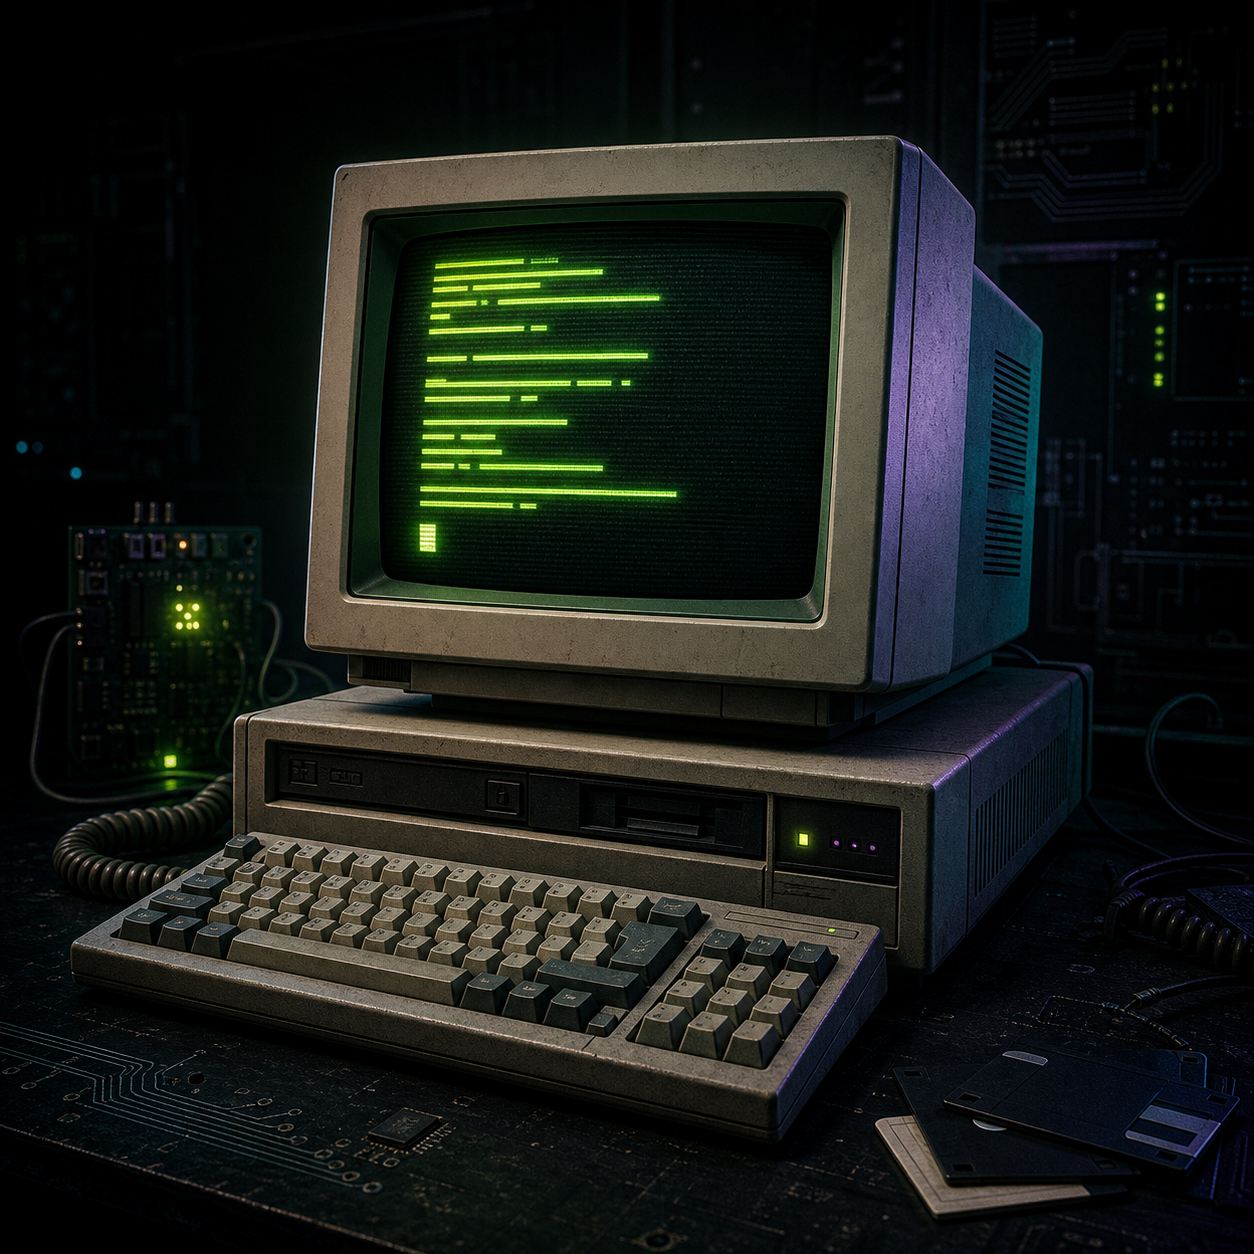
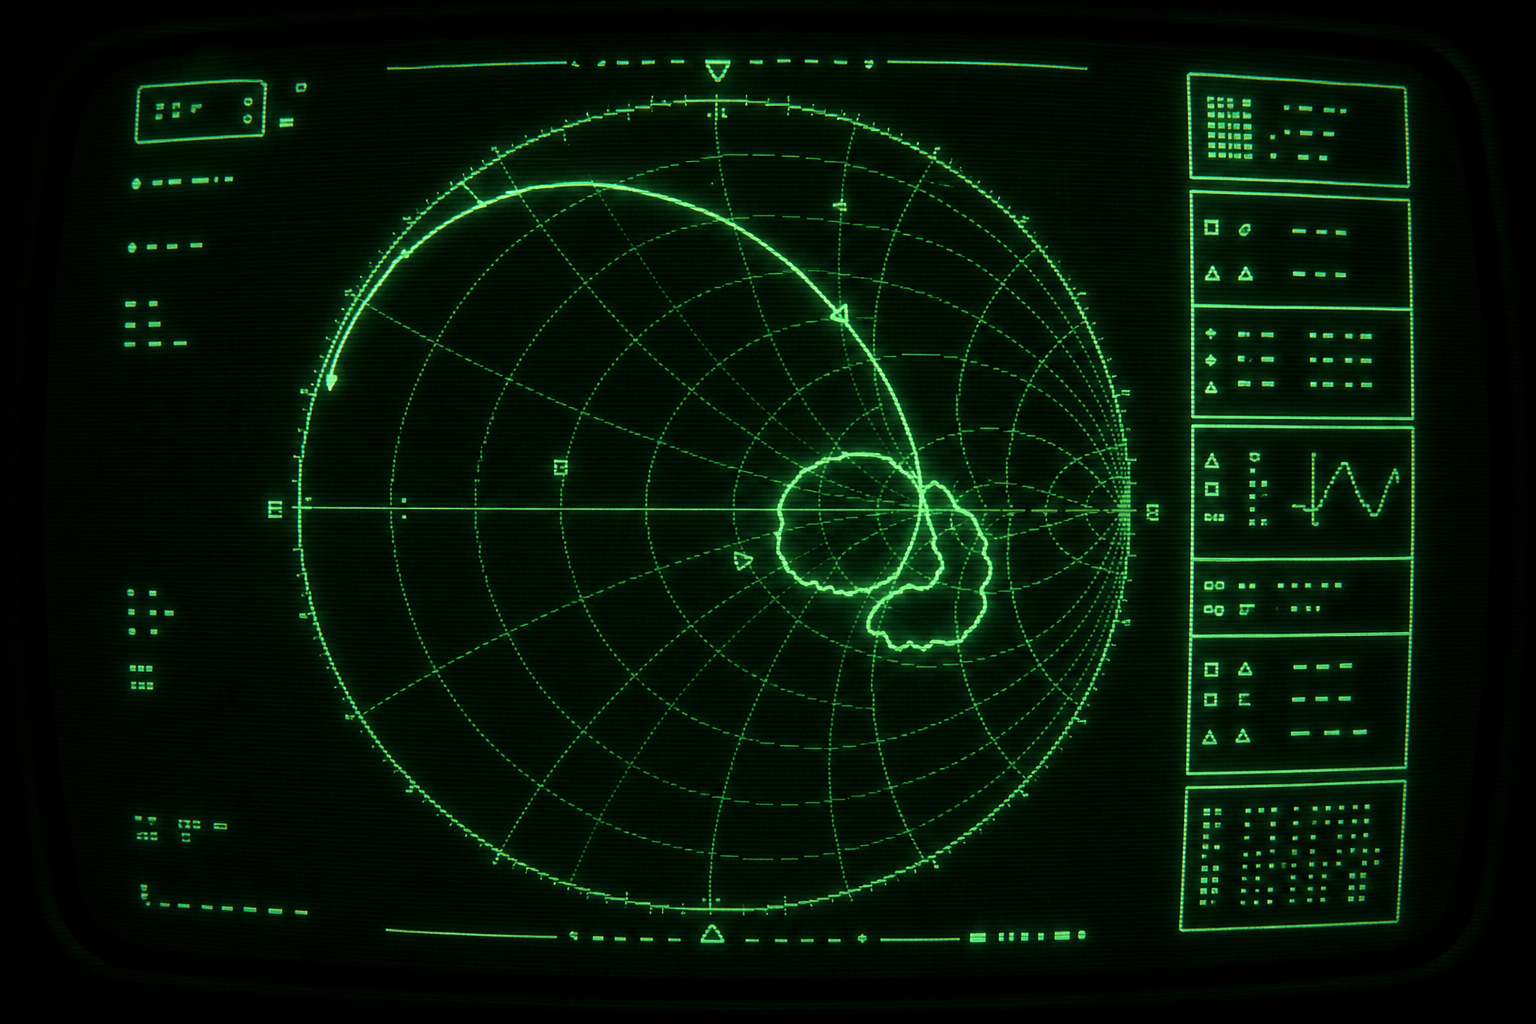
Refresh portfolio from recent GitHub activity

diff --git a/components/ascii-rain.tsx b/components/ascii-rain.tsx
@@ -1,0 +1,70 @@
+"use client"
+
+import { useEffect, useRef } from "react"
+
+const glyphs = "01{}[]<>/\\|*+=$#@"
+
+export default function AsciiRain() {
+  const canvasRef = useRef<HTMLCanvasElement>(null)
+
+  useEffect(() => {
+    const canvas = canvasRef.current
+    if (!canvas) return
+    const context = canvas.getContext("2d")
+    if (!context) return
+
+    const reduceMotion = window.matchMedia("(prefers-reduced-motion: reduce)")
+    const cell = 15
+    let columns = 0
+    let drops: number[] = []
+    let frame = 0
+    let previous = 0
+
+    const resize = () => {
+      const width = canvas.clientWidth
+      const height = canvas.clientHeight
+      const ratio = Math.min(window.devicePixelRatio || 1, 2)
+      canvas.width = Math.floor(width * ratio)
+      canvas.height = Math.floor(height * ratio)
+      context.setTransform(ratio, 0, 0, ratio, 0, 0)
+      columns = Math.ceil(width / cell)
+      drops = Array.from({ length: columns }, () => -Math.random() * height)
+      context.clearRect(0, 0, width, height)
+    }
+
+    const paint = (time: number) => {
+      const width = canvas.clientWidth
+      const height = canvas.clientHeight
+      if (time - previous > 75) {
+        context.fillStyle = "rgba(8, 12, 13, 0.14)"
+        context.fillRect(0, 0, width, height)
+        context.font = "10px var(--font-mono), monospace"
+        context.textAlign = "center"
+
+        for (let index = 0; index < columns; index += 1) {
+          if (Math.random() > 0.72) continue
+          const glyph = glyphs[Math.floor(Math.random() * glyphs.length)]
+          const lead = Math.random() > 0.9
+          context.fillStyle = lead ? "rgba(220, 255, 200, .8)" : "rgba(183, 243, 74, .48)"
+          context.fillText(glyph, index * cell + cell / 2, drops[index])
+          drops[index] += cell
+          if (drops[index] > height + Math.random() * 240) drops[index] = -Math.random() * 180
+        }
+        previous = time
+      }
+      if (!reduceMotion.matches) frame = requestAnimationFrame(paint)
+    }
+
+    const observer = new ResizeObserver(resize)
+    observer.observe(canvas)
+    resize()
+    frame = requestAnimationFrame(paint)
+
+    return () => {
+      observer.disconnect()
+      cancelAnimationFrame(frame)
+    }
+  }, [])
+
+  return <canvas ref={canvasRef} className="ascii-rain" aria-hidden="true" />
+}

diff --git a/app/page.tsx b/app/page.tsx
@@ -8,12 +8,14 @@ import {
 } from "lucide-react"
 import { personal } from "@/data/personal"
 import { projects } from "@/data/projects"
+import AsciiRain from "@/components/ascii-rain"
 
-type Command = "home" | "help" | "about" | "oss" | "work" | "skills" | "contact" | "resume" | "clear" | "unknown"
+type Command = "home" | "help" | "about" | "activity" | "oss" | "work" | "skills" | "contact" | "resume" | "clear" | "unknown"
 type HistoryItem = { id: number; input: string; command: Command }
 
 const commands = [
   ["about", "the human behind the terminal"],
+  ["activity", "recent commits and shipped changes"],
   ["oss", "latest open-source contributions"],
   ["work", "selected engineering projects"],
   ["skills", "languages, systems & tools"],
@@ -28,7 +30,7 @@ const contributions = [
     pr: "#356",
     state: "OPEN",
     title: "VirtualBox codebase search",
-    detail: "Built an RL/evaluation environment with 630 prompts, evaluator logic, rollout artifacts, and documentation.",
+    detail: "+863 lines across 8 files: 630 code-search prompts, environment loader, evaluator, model rollouts, and documentation.",
     href: "https://github.com/PrimeIntellect-ai/community-environments/pull/356",
   },
   {
@@ -36,7 +38,7 @@ const contributions = [
     pr: "#12328",
     state: "MERGED",
     title: "Cancel repo metadata tree walks on teardown",
-    detail: "Fixed cancellation behavior in Warp's agentic development environment.",
+    detail: "Merged lifecycle fix spanning 12 files: abortable async tree walks, stale-generation guards, duplicate-load coalescing, and 127 passing package tests.",
     href: "https://github.com/warpdotdev/warp/pull/12328",
   },
   {
@@ -44,9 +46,27 @@ const contributions = [
     pr: "#7837",
     state: "MERGED",
     title: "Optimize leaderboard counts and PB/log updates",
-    detail: "Improved performance in leaderboard and personal-best update paths.",
+    detail: "Replaced full leaderboard fetches with MongoDB $count, made personal-best writes atomic, and removed sensitive debug logging.",
     href: "https://github.com/monkeytypegame/monkeytype/pull/7837",
   },
+  {
+    repo: "lakshasri/veridex-onchain-leaderboard",
+    pr: "#1",
+    state: "MERGED",
+    title: "Add organizer score-correction flow",
+    detail: "Added Solidity score correction before finalization, synchronized weighted totals, emitted auditable events, and wired the flow through React and Hardhat tests.",
+    href: "https://github.com/lakshasri/veridex-onchain-leaderboard/pull/1",
+  },
+]
+
+const recentActivity = [
+  { date: "JUL 19", repo: "cpboard", hash: "650c5eb", message: "Classify missing provider profiles safely", detail: "Durable backoff for renamed/deleted accounts while preserving genuine provider-outage failures.", href: "https://github.com/chinmaydwivedi/cpboard/commit/650c5eb4" },
+  { date: "JUL 19", repo: "cpboard", hash: "3b3e5f5", message: "Fix CodeQL URL and log findings", detail: "Exact HTTPS hosts, bounded parsed identifiers, fixed-format logs, and safer preview deployment rules.", href: "https://github.com/chinmaydwivedi/cpboard/commit/3b3e5f55" },
+  { date: "JUL 19", repo: "cpboard", hash: "adc96b7", message: "Harden platform refresh and production security", detail: "Reliability and security pass over the multi-provider scheduled refresh pipeline.", href: "https://github.com/chinmaydwivedi/cpboard/commit/adc96b7f" },
+  { date: "JUL 17", repo: "warpdotdev/warp", hash: "PR #12328", message: "Repo metadata cancellation fix merged", detail: "Async traversal cancellation, generation fencing, and concurrent directory-load coalescing.", href: "https://github.com/warpdotdev/warp/pull/12328" },
+  { date: "JUN 19", repo: "snippex", hash: "d74a9b2", message: "Ship and polish competitive-programming template archive", detail: "Copy snippets as raw code, VS Code JSON, or Sublime Text XML.", href: "https://github.com/chinmaydwivedi/snippex/commit/d74a9b25" },
+  { date: "JUN 17", repo: "skipthat", hash: "480f087", message: "Build privacy-first YouTube filtering extension", detail: "Local rules, focus timers, schedules, allow-only mode, and no accounts or tracking.", href: "https://github.com/chinmaydwivedi/skipthat/commit/480f087c" },
+  { date: "JUN 15", repo: "KubeDataGuard", hash: "0c5d2ea", message: "Verify full kind operator runtime path", detail: "Closed-loop data SLO checks across Postgres, Kafka, OpenSearch, Redis, and ClickHouse.", href: "https://github.com/chinmaydwivedi/KubeDataGuard/commit/0c5d2ea5" },
 ]
 
 const skillGroups = [
@@ -104,10 +124,19 @@ function AboutOutput() {
   return <div className="command-output about-output"><p className="output-title">ABOUT.MD</p>
     <p><span className="line-number">01</span> I&apos;m a Computer Science undergraduate at <b>PES University</b>, graduating in 2027.</p>
     <p><span className="line-number">02</span> My favorite problems live at the intersection of <b>systems, infrastructure, agents, and developer experience.</b></p>
-    <p><span className="line-number">03</span> At <b>Prime Intellect</b>, I build training-ready codebase-search environments for LLM agents.</p>
+    <p><span className="line-number">03</span> At <b>Prime Intellect</b>, I build training-ready codebase-search environments for LLM agents; most recently I also shipped a repository lifecycle fix to <b>Warp</b>.</p>
     <p><span className="line-number">04</span> As a <b>GDG campus mentor</b>, I&apos;ve helped 50+ students with Git, DSA, and project engineering.</p>
     <p><span className="line-number">05</span> Away from shipping, I sharpen my reasoning through competitive programming—500+ verified problems and counting.</p>
   </div>
+}
+
+function ActivityOutput() {
+  return <div className="command-output"><p className="output-title">GIT LOG --AUTHOR=CHINMAY --RECENT</p><div className="activity-list">
+    {recentActivity.map(item => <a href={item.href} target="_blank" rel="noreferrer" key={`${item.repo}-${item.hash}`}>
+      <span className="activity-date">{item.date}</span><span className="activity-node" />
+      <div><div className="activity-meta"><code>{item.repo}</code><b>{item.hash}</b></div><h3>{item.message}</h3><p>{item.detail}</p></div><ArrowUpRight />
+    </a>)}
+  </div></div>
 }
 
 function OssOutput() {
@@ -161,6 +190,7 @@ function Output({ command, input, run }: { command: Command; input: string; run:
   if (command === "home") return <HomeOutput run={run} />
   if (command === "help") return <HelpOutput run={run} />
   if (command === "about") return <AboutOutput />
+  if (command === "activity") return <ActivityOutput />
   if (command === "oss") return <OssOutput />
   if (command === "work") return <WorkOutput />
   if (command === "skills") return <SkillsOutput />
@@ -178,7 +208,7 @@ export default function Portfolio() {
     const value = raw.trim().toLowerCase()
     if (!value) return
     if (value === "clear") { setHistory([]); setInput(""); return }
-    const aliases: Record<string, Command> = { home: "home", help: "help", "--help": "help", about: "about", whoami: "about", oss: "oss", contributions: "oss", work: "work", projects: "work", ls: "work", skills: "skills", stack: "skills", contact: "contact", email: "contact", resume: "resume", cv: "resume" }
+    const aliases: Record<string, Command> = { home: "home", help: "help", "--help": "help", about: "about", whoami: "about", activity: "activity", recent: "activity", commits: "activity", log: "activity", oss: "oss", contributions: "oss", work: "work", projects: "work", ls: "work", skills: "skills", stack: "skills", contact: "contact", email: "contact", resume: "resume", cv: "resume" }
     const command = aliases[value] || "unknown"
     const id = Date.now()
     setHistory(items => [...items, { id, input: raw, command }])
@@ -209,6 +239,7 @@ export default function Portfolio() {
           <p>PORTFOLIO</p>
           <button onClick={() => run("home")}><ChevronRight /> <span className="file-icon ts">TS</span> home.tsx</button>
           <button onClick={() => run("about")}><ChevronRight /> <span className="file-icon md">M↓</span> about.md</button>
+          <button onClick={() => run("activity")}><ChevronRight /> <span className="file-icon log">≡</span> activity.log</button>
           <button onClick={() => run("oss")}><ChevronRight /> <span className="file-icon git">⑂</span> oss.log</button>
           <button onClick={() => run("work")}><ChevronRight /> <span className="file-icon js">JS</span> work.json</button>
           <button onClick={() => run("skills")}><ChevronRight /> <span className="file-icon json">{`{}`}</span> skills.json</button>
@@ -216,6 +247,7 @@ export default function Portfolio() {
           <div className="aside-socials"><a href={personal.github} target="_blank"><Github /> GitHub</a><a href={personal.linkedin} target="_blank"><Linkedin /> LinkedIn</a></div>
         </aside>
         <section className="terminal-main">
+          <AsciiRain />
           <div className="terminal-scroll">
             <div className="boot-sequence"><span>Last login: {new Date().toLocaleDateString("en-US", { weekday: "short", month: "short", day: "2-digit" })} on ttys001</span><span>portfolio-cli v2.0.0</span></div>
             <HomeOutput run={run} />

diff --git a/data/projects.ts b/data/projects.ts
@@ -16,11 +16,11 @@ export const projects: Project[] = [
     id: "cpboard",
     title: "CPBoard",
     description:
-      "University Competitive Programming Leaderboard tracking progress across Codeforces, LeetCode, AtCoder, and CodeChef. Compete with peers and rise through the ranks.",
+      "A verified multi-university CP platform with four provider lanes, ownership challenges, unified rankings, contest alerts, practice recommendations, and a hardened scheduled-sync pipeline.",
     longDescription:
       "A full-stack competitive programming leaderboard platform built for universities. Features multi-platform tracking, university leaderboards, activity heatmaps, and CP rankings. Built with Next.js, TypeScript, and modern web technologies.",
     image: "/cpboard.png",
-    technologies: ["TypeScript", "Next.js", "React", "Tailwind CSS", "Vercel"],
+    technologies: ["Next.js 16", "TypeScript", "PostgreSQL", "Prisma", "NextAuth"],
     liveUrl: "https://cpboard-three.vercel.app",
     repoUrl: "https://github.com/chinmaydwivedi/cpboard",
     featured: true,
@@ -29,7 +29,7 @@ export const projects: Project[] = [
   {
     id: "kubedataguard",
     title: "KubeDataGuard",
-    description: "A Kubernetes-native consistency SLO operator that verifies derived data across Kafka, OpenSearch, Redis, and ClickHouse, with evidence reports and repair workflows.",
+    description: "An evidence-first data consistency SLO engine and Go operator that checks Postgres-derived views across Kafka, OpenSearch, Redis, and ClickHouse, then produces durable counterexamples and controlled repairs.",
     image: "/kubedataguard.svg",
     technologies: ["Python", "Go", "Kubernetes", "Kafka", "PostgreSQL"],
     liveUrl: "#",
@@ -38,11 +38,22 @@ export const projects: Project[] = [
     category: "systems",
   },
   {
+    id: "skipthat",
+    title: "Skipthat",
+    description: "A privacy-first Manifest V3 extension that filters YouTube locally by keyword, phrase, topic, schedule, and focus timer—with blocklist and allow-only modes and zero tracking.",
+    image: "/placeholder.svg",
+    technologies: ["JavaScript", "Chrome MV3", "Local Storage", "CSP"],
+    liveUrl: "#",
+    repoUrl: "https://github.com/chinmaydwivedi/skipthat",
+    featured: true,
+    category: "tools",
+  },
+  {
     id: "snippex",
     title: "Snippex",
-    description: "A fast, focused web experience for organizing and working with reusable code snippets, built and shipped with a modern TypeScript stack.",
+    description: "A competitive-programming template archive that exports snippets as raw code, VS Code snippet JSON, or Sublime Text XML.",
     image: "/snippex.svg",
-    technologies: ["TypeScript", "Next.js", "React", "Vercel"],
+    technologies: ["TypeScript", "React 19", "Vite", "Vercel"],
     liveUrl: "https://snippex-navy.vercel.app",
     repoUrl: "https://github.com/chinmaydwivedi/snippex",
     featured: true,

diff --git a/app/globals.css b/app/globals.css
@@ -52,13 +52,14 @@ button { color: inherit; }
 .terminal-content aside > button:hover { background: #172022; color: var(--text); }
 .terminal-content aside > button > svg { width: 9px; color: #58625d; }
 .file-icon { width: 18px; font-size: 8px; font-weight: 700; color: var(--cyan); }
-.file-icon.md { color: var(--purple); }.file-icon.git { color: #ff866b; font-size: 14px; }.file-icon.js { color: var(--yellow); }.file-icon.json { color: var(--green); }.file-icon.sh { color: #d0d6d2; font-size: 13px; }
+.file-icon.md { color: var(--purple); }.file-icon.log { color: var(--green); font-size: 13px; }.file-icon.git { color: #ff866b; font-size: 14px; }.file-icon.js { color: var(--yellow); }.file-icon.json { color: var(--green); }.file-icon.sh { color: #d0d6d2; font-size: 13px; }
 .aside-socials { position: absolute; inset: auto 15px 18px; display: grid; gap: 10px; color: #6f7b76; }
 .aside-socials a { display: flex; gap: 8px; align-items: center; }
 .aside-socials a:hover { color: var(--green); }
 .aside-socials svg { width: 13px; }
-.terminal-main { min-width: 0; min-height: 0; overflow: hidden; }
-.terminal-scroll { height: 100%; overflow-y: auto; overflow-x: hidden; padding: 18px clamp(20px,4vw,68px) 50px; }
+.terminal-main { position: relative; min-width: 0; min-height: 0; overflow: hidden; }
+.ascii-rain { position: absolute; inset: 0; width: 100%; height: 100%; opacity: .13; pointer-events: none; mask-image: linear-gradient(to bottom, transparent, black 18%, black 76%, transparent); }
+.terminal-scroll { position: relative; z-index: 1; height: 100%; overflow-y: auto; overflow-x: hidden; padding: 18px clamp(20px,4vw,68px) 50px; }
 .boot-sequence { display: flex; justify-content: space-between; color: #59635f; font-size: 9px; margin-bottom: 30px; }
 .home-output { max-width: 1120px; }
 .cli-hero { display: grid; grid-template-columns: minmax(0,1fr) 285px; gap: clamp(35px,6vw,90px); align-items: center; padding: 15px 0 25px; }
@@ -102,13 +103,16 @@ button { color: inherit; }
 .about-output { max-width: 900px; }
 .about-output > p:not(.output-title) { margin: 0; padding: 8px 0; border-bottom: 1px solid rgba(38,48,51,.55); font-size: 11px; }
 .about-output b { color: #d8ded9; }.line-number { display: inline-block; width: 40px; color: #46514b; user-select: none; }
+.activity-list { max-width: 980px; border-top: 1px solid var(--line); }
+.activity-list > a { position: relative; display: grid; grid-template-columns: 54px 13px minmax(0,1fr) 18px; gap: 14px; align-items: start; padding: 16px 7px; border-bottom: 1px solid var(--line); transition: background .15s; }
+.activity-list > a:hover { background: #12191b; }.activity-date { padding-top: 2px; color: #64716a; font-size: 8px; }.activity-node { position: relative; width: 8px; height: 8px; margin-top: 4px; border: 1px solid var(--green); border-radius: 50%; box-shadow: 0 0 8px rgba(183,243,74,.35); }.activity-node:after { content: ""; position: absolute; top: 10px; left: 3px; width: 1px; height: 74px; background: #263033; }.activity-list > a:last-child .activity-node:after { display: none; }.activity-meta { display: flex; gap: 10px; color: #64716a; font-size: 8px; }.activity-meta code { color: var(--cyan); }.activity-meta b { color: var(--purple); font-weight: 400; }.activity-list h3 { margin: 6px 0 3px; color: #d8ded9; font-size: 12px; }.activity-list p { margin: 0; color: #707c75; font-size: 8px; }.activity-list > a > svg { width: 12px; color: #718078; }
 .pr-list { display: grid; gap: 10px; max-width: 950px; }
 .pr-list > a { padding: 15px 18px; border: 1px solid var(--line); background: #0b1011; transition: .15s; }
 .pr-list > a:hover { transform: translateX(4px); border-color: #4b5a51; }
 .pr-head { display: flex; align-items: center; gap: 10px; font-size: 8px; }
 .pr-head > span { padding: 2px 6px; border: 1px solid var(--green); color: var(--green); }.pr-head .open { border-color: var(--purple); color: var(--purple); }.pr-head code { color: var(--cyan); }.pr-head b { color: #707c75; }.pr-head svg { width: 12px; margin-left: auto; }
 .pr-list h3 { margin: 10px 0 3px; color: #d8ded9; font-size: 13px; }.pr-list p { margin: 0; color: #717d76; font-size: 9px; }
-.cli-projects { display: grid; grid-template-columns: repeat(3,1fr); gap: 10px; }
+.cli-projects { display: grid; grid-template-columns: repeat(2,1fr); gap: 10px; }
 .cli-projects article { display: flex; flex-direction: column; min-height: 275px; padding: 16px; background: #0b1011; border: 1px solid var(--line); }
 .file-head { display: flex; align-items: center; gap: 10px; font-size: 8px; color: #637069; }.file-head > span { color: var(--purple); }.file-head a { margin-left: auto; }.file-head svg { width: 13px; }
 .cli-projects h3 { margin: 24px 0 10px; color: var(--green); font-size: 14px; }.cli-projects p { margin: 0 0 18px; color: #78847d; font-size: 9px; line-height: 1.65; }
@@ -153,6 +157,7 @@ button { color: inherit; }
   .cli-projects { grid-template-columns: 1fr; }
   .help-table button { grid-template-columns: 85px 1fr; }
   .pr-head code { max-width: 160px; overflow: hidden; text-overflow: ellipsis; white-space: nowrap; }
+  .activity-list > a { grid-template-columns: 44px 10px minmax(0,1fr) 14px; gap: 9px; }.activity-list p { line-height: 1.55; }
   .contact-links > a,.contact-email-row a { overflow-wrap: anywhere; }
   .terminal-statusbar > div:first-child span:nth-child(n+2),.terminal-statusbar > div:last-child span:not(:last-child) { display: none; }
 }

diff --git a/data/personal.ts b/data/personal.ts
@@ -1,10 +1,10 @@
 export const personal = {
   name: "Chinmay Dwivedi",
   title: "Systems-minded Software Engineer",
-  tagline: "Building developer tools, RL evaluation environments, and reliable data systems.",
+  tagline: "Building developer tools, RL evaluation environments, and reliable distributed systems.",
   about: [
     "I'm a CS undergraduate at PES University, Bangalore, passionate about building innovative software solutions. My interests span systems programming, cryptography, computer vision, and competitive programming.",
-    "Currently contributing to open-source at Prime Intellect, building RL environments for VirtualBox and SGLang. I also mentor developers at Google Developer Group, helping them grow their skills.",
+    "Currently contributing to open-source at Prime Intellect and shipping production fixes to projects including Warp and Monkeytype. I also mentor developers at Google Developer Group, helping them grow their skills.",
     "With 500+ verified problems solved across competitive programming platforms, I bring analytical rigor and practical engineering judgment to every project I build.",
   ],
   email: "[email redacted]",

diff --git a/app/layout.tsx b/app/layout.tsx
@@ -12,7 +12,7 @@ const mono = Space_Mono({
 export const metadata: Metadata = {
   title: "Chinmay Dwivedi | Systems-minded Software Engineer",
   description:
-    "Chinmay Dwivedi builds developer tools, RL evaluation environments, and reliable data systems. Open-source contributor and competitive programmer.",
+    "Chinmay Dwivedi builds developer tools, RL evaluation environments, and reliable distributed systems. Open-source contributor to Warp, Prime Intellect, and Monkeytype.",
   keywords: [
     "Chinmay Dwivedi",
     "Software Developer",